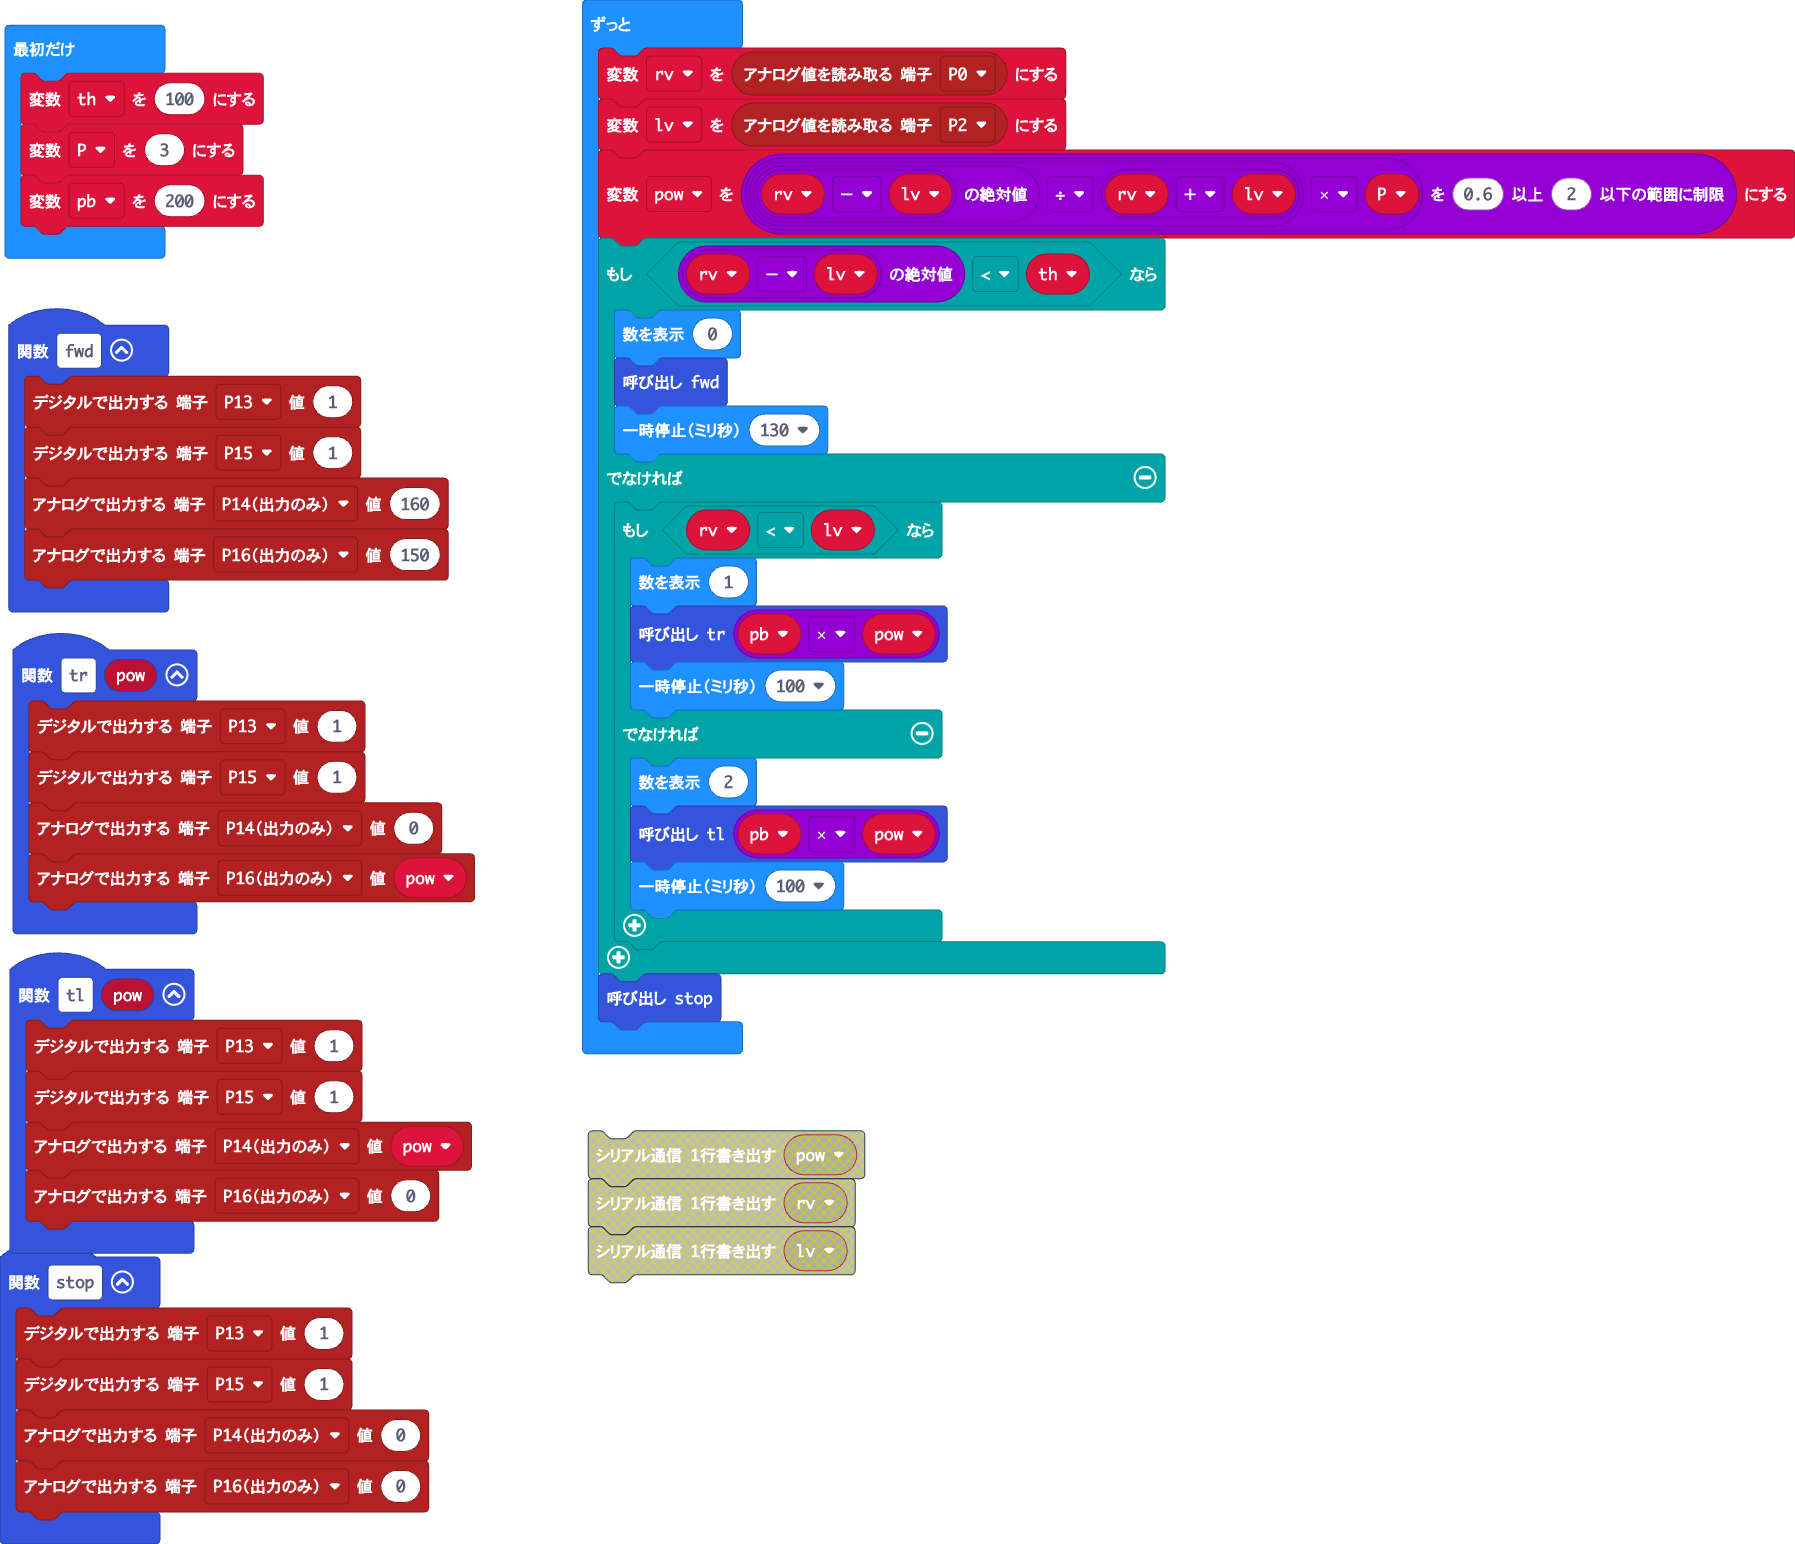
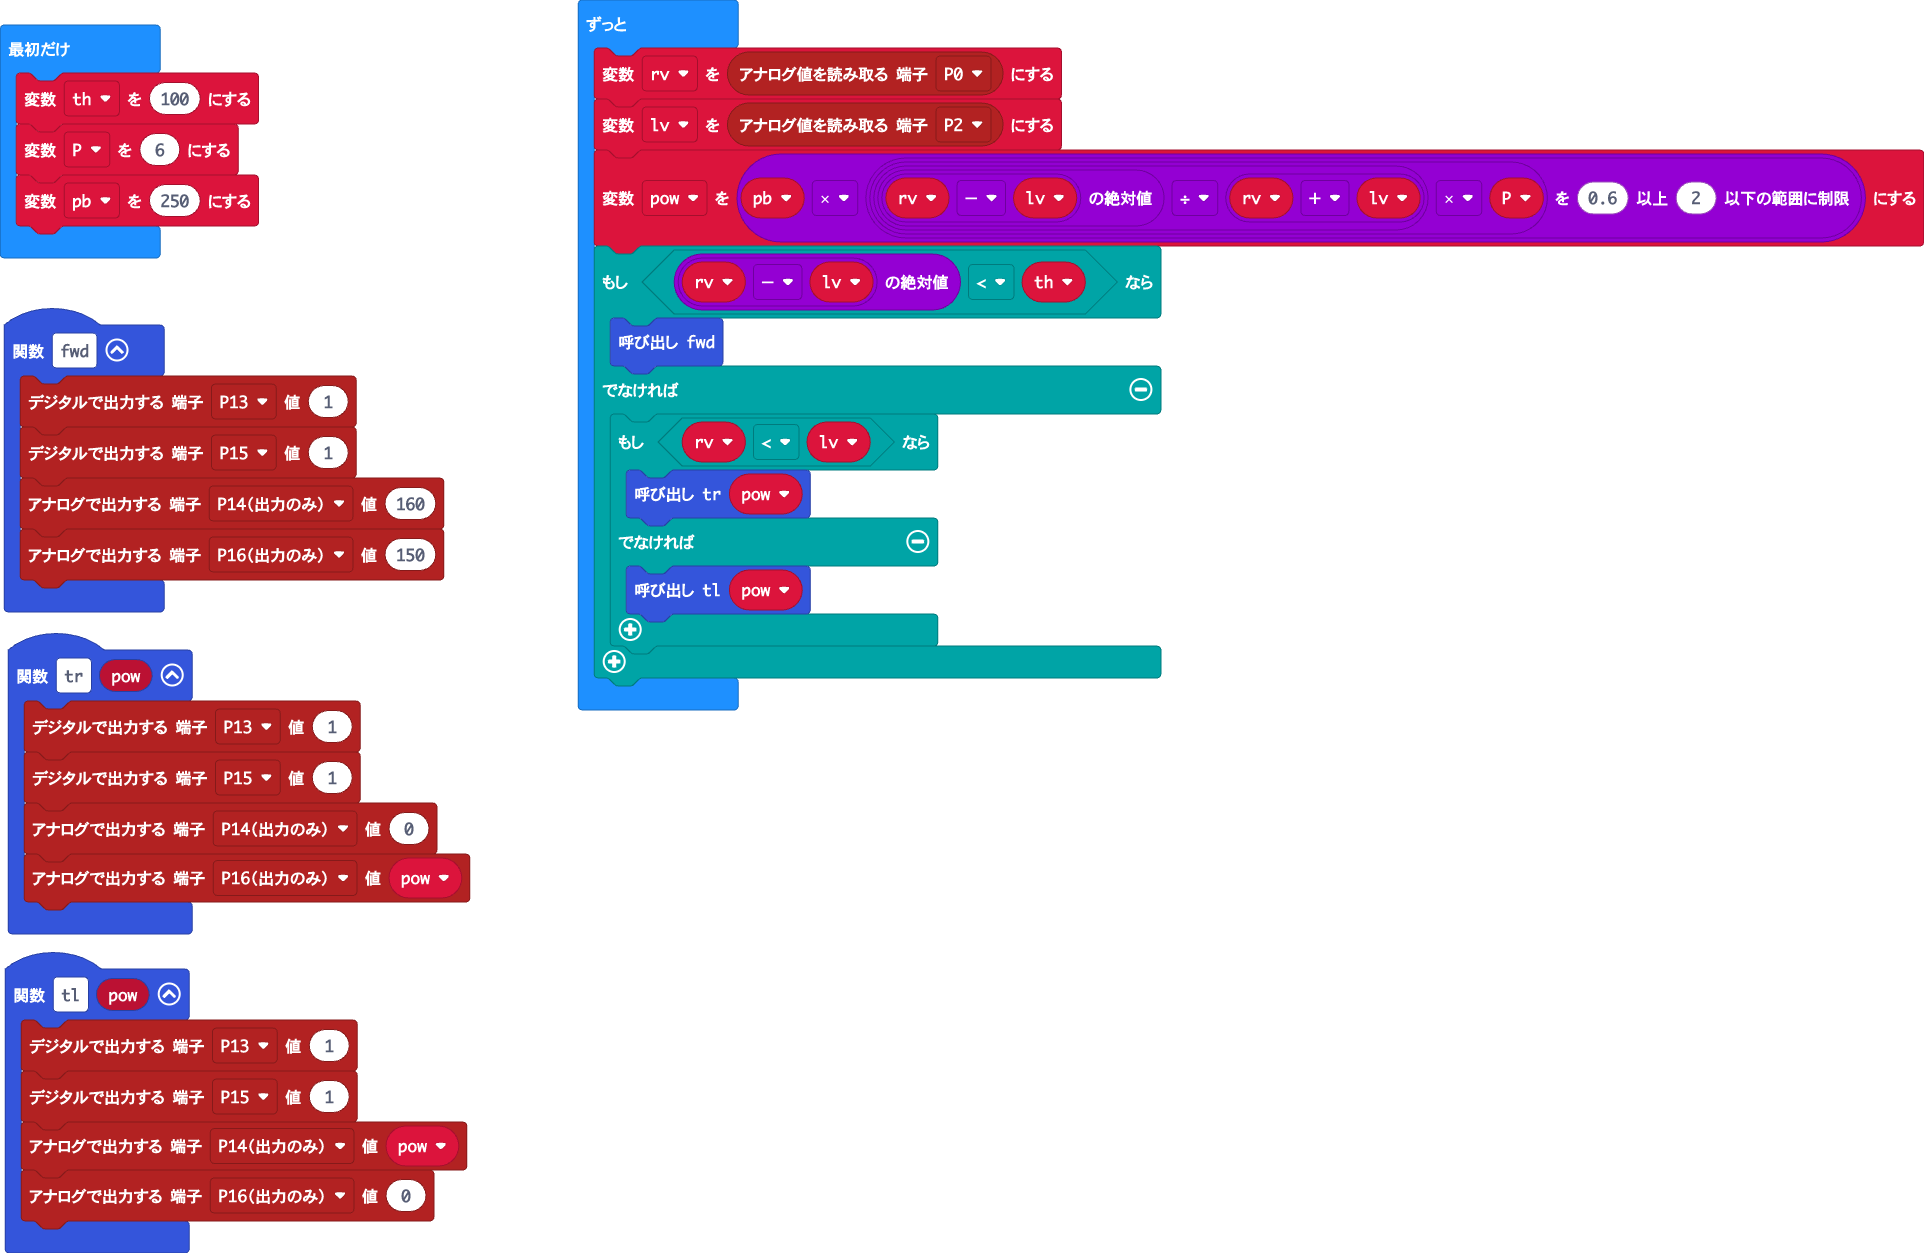
to remove led display since it's time consuming

diff --git a/main.ts b/main.ts
@@ -10,12 +10,6 @@ function tr (pow: number) {
     pins.analogWritePin(AnalogPin.P14, 0)
     pins.analogWritePin(AnalogPin.P16, pow)
 }
-function stop () {
-    pins.digitalWritePin(DigitalPin.P13, 1)
-    pins.digitalWritePin(DigitalPin.P15, 1)
-    pins.analogWritePin(AnalogPin.P14, 0)
-    pins.analogWritePin(AnalogPin.P16, 0)
-}
 function tl (pow: number) {
     pins.digitalWritePin(DigitalPin.P13, 1)
     pins.digitalWritePin(DigitalPin.P15, 1)
@@ -26,26 +20,19 @@ let lv = 0
 let rv = 0
 let pow = 0
 let th = 100
-let P = 3
-let pb = 200
+let P = 6
+let pb = 250
 basic.forever(function () {
     rv = pins.analogReadPin(AnalogPin.P0)
     lv = pins.analogReadPin(AnalogPin.P2)
-    pow = Math.constrain(Math.abs(rv - lv) / (rv + lv) * P, 0.6, 2)
+    pow = pb * Math.constrain(Math.abs(rv - lv) / (rv + lv) * P, 0.6, 2)
     if (Math.abs(rv - lv) < th) {
-        basic.showNumber(0)
         fwd()
-        basic.pause(130)
     } else {
         if (rv < lv) {
-            basic.showNumber(1)
-            tr(pb * pow)
-            basic.pause(100)
+            tr(pow)
         } else {
-            basic.showNumber(2)
-            tl(pb * pow)
-            basic.pause(100)
+            tl(pow)
         }
     }
-    stop()
 })
